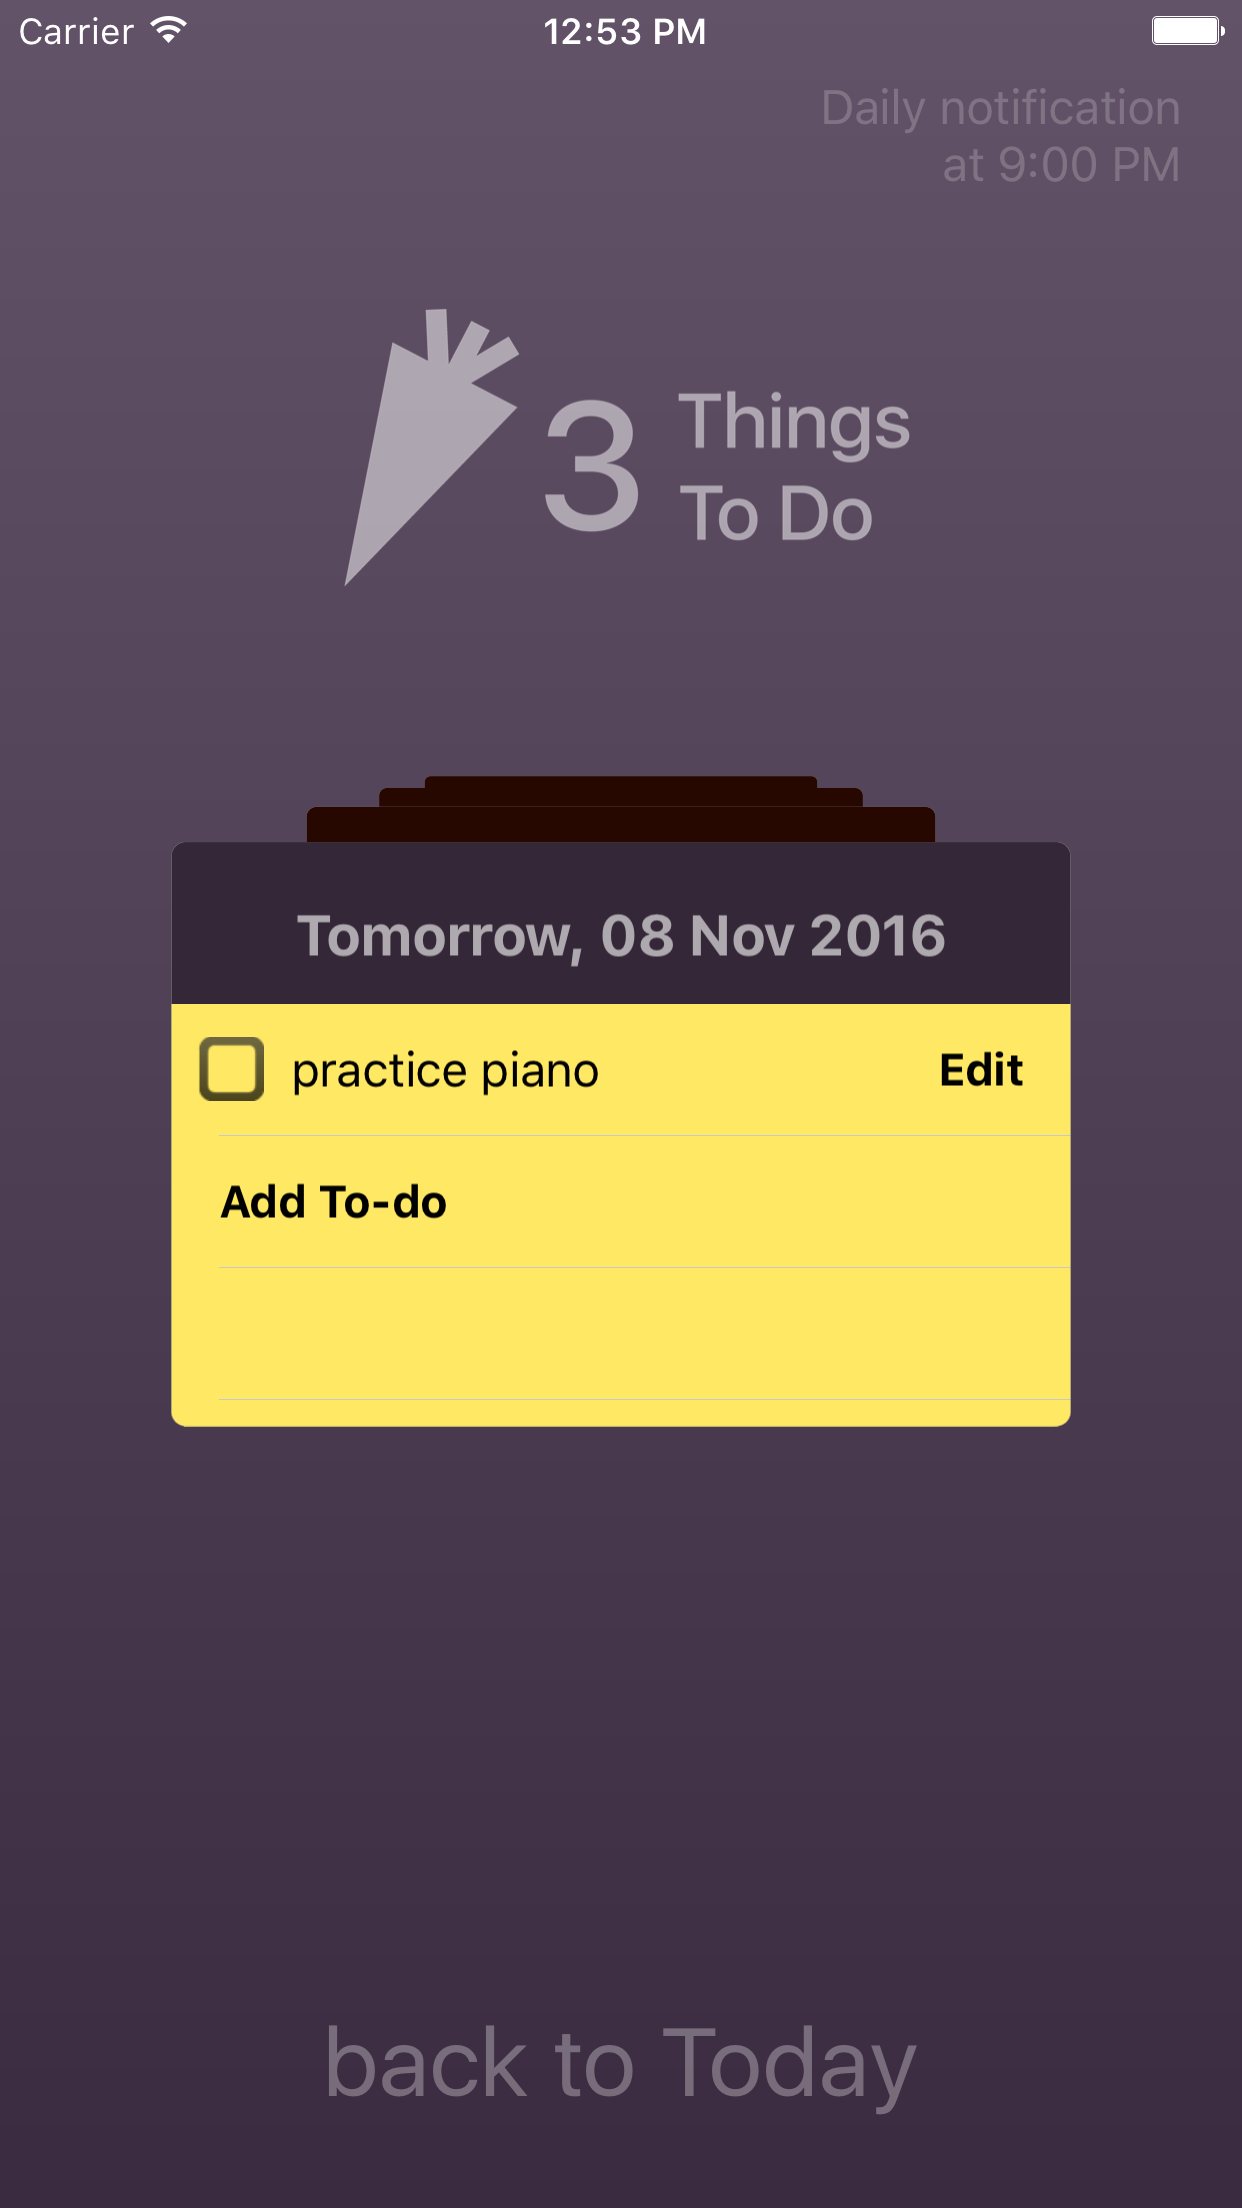
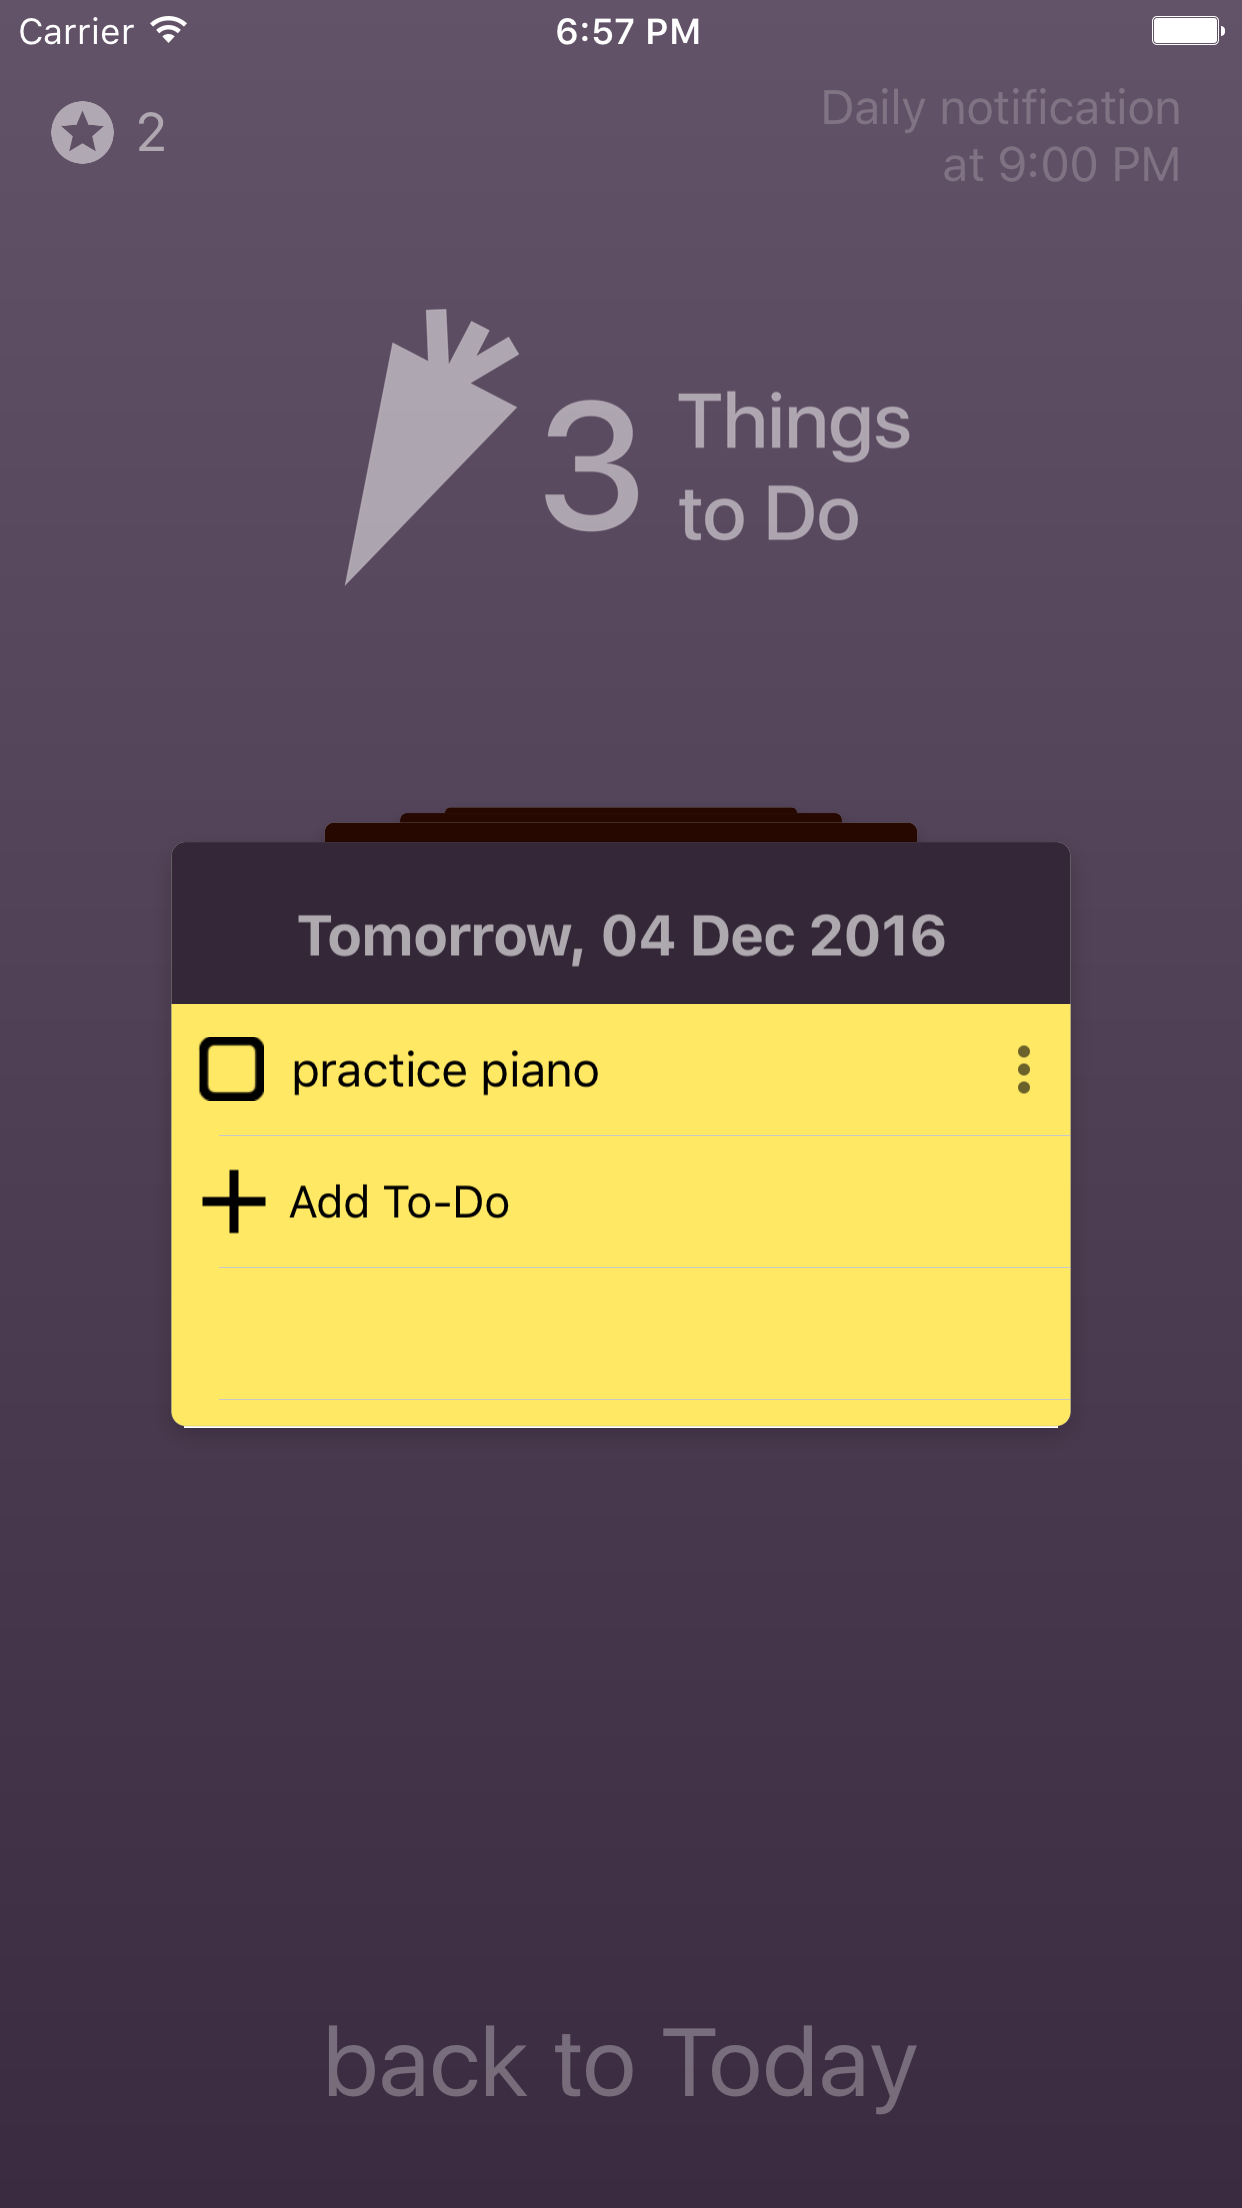
updated for v1.3

diff --git a/3thingstodo/index.html b/3thingstodo/index.html
@@ -81,12 +81,14 @@
           Because usually we end up with lists far too long for us to complete. Prioritize ruthlessly! There is not so much time in a day. Focus on most important and feasible things.
           </p>
 
-          
+          <img src="img/coffe_with_kate_1.jpg">
 
 
           <p>
           With "3 Things to Do" it's easy to keep track of <b>your achivements</b>. Just scroll todo cards back in history and be happy about how many things you have already done!
 </p><p>
+
+<img src="img/coffe_with_kate_2.jpg">
 
 <b>Share with friends!</b><br>
 Tell your friends about your productive day by sharing your to-do list screenshot on Twitter or Facebook!
@@ -134,7 +136,7 @@ Tell your friends about your productive day by sharing your to-do list screensho
 <p>Having trouble with Pages? Check out our <a href="https://help.github.com/pages">documentation</a> or <a href="https://github.com/contact">contact support</a> and we’ll help you sort it out.</p>-->
       </section>
       <footer>
-        <p><small>3 Things to Do</small></p>
+        <p><small>3 Things to Do © 2016</small></p>
       </footer>
     </div>
     <script src="javascripts/scale.fix.js"></script>
